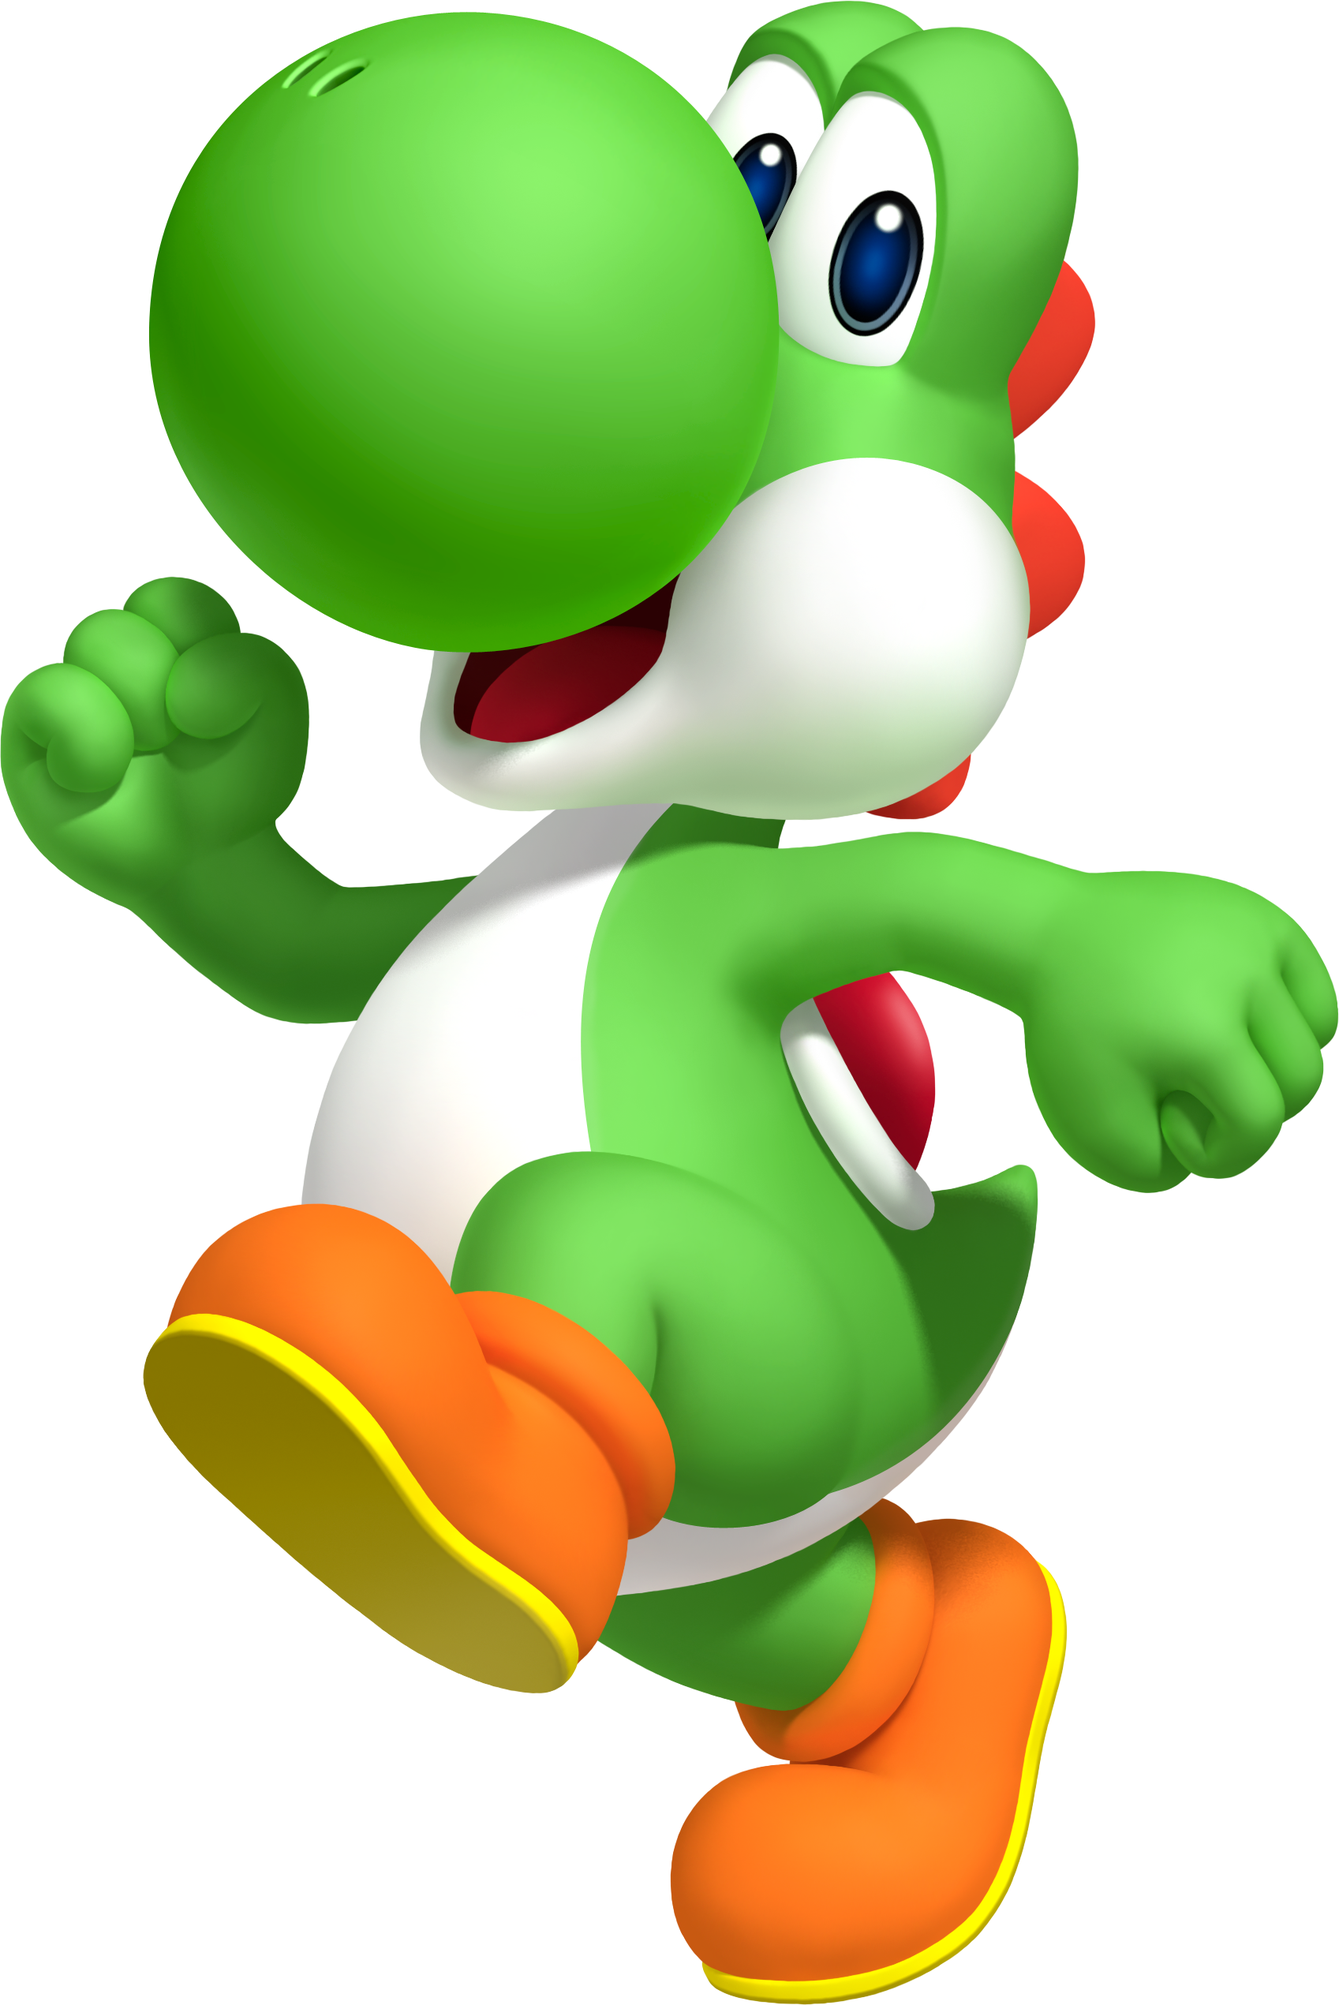
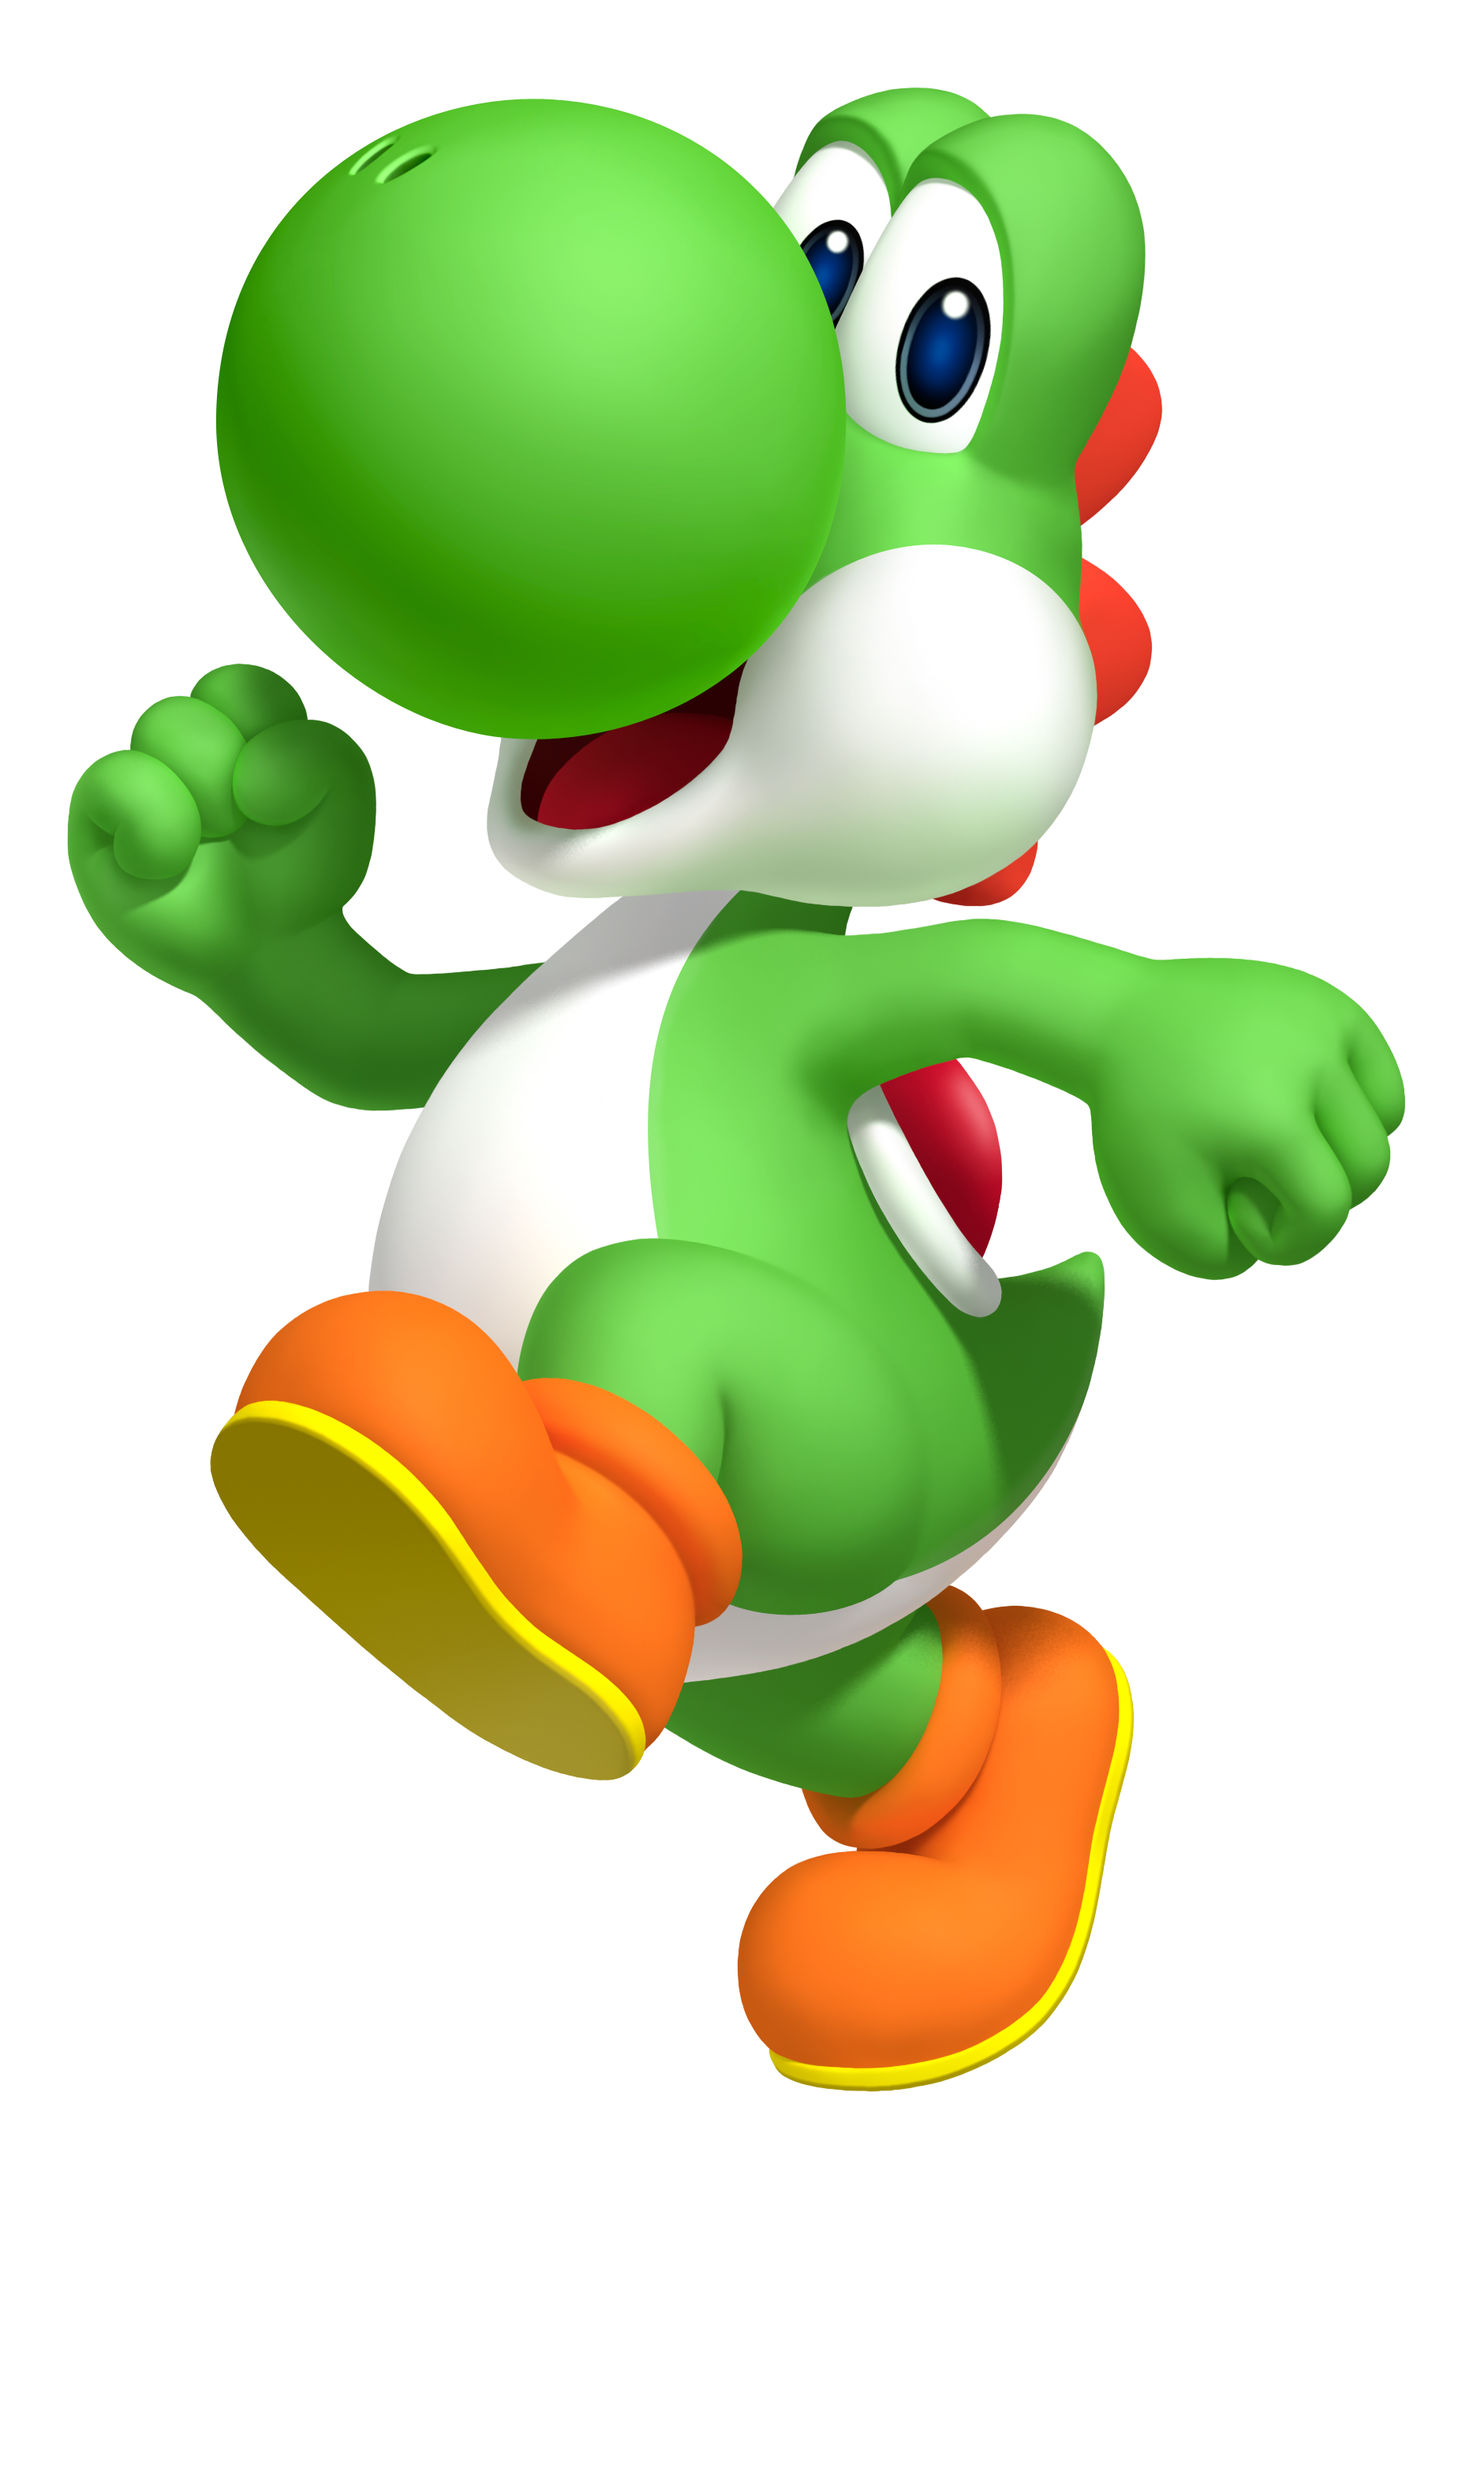
Colors and artwork added

diff --git a/src/components/character-card/character-card.scss b/src/components/character-card/character-card.scss
@@ -2,28 +2,38 @@
     ion-card-header, h3 {
         color: color($game-character-colors, $character-name);
     }
-    div.image {
+    div.gradient {
         background-color: color($game-character-colors, $character-name);
-        div {
+        div.image {
             background-image: url('/assets/imgs/characters/#{$character-name}.png');
         }
     }
 }
 
 character-card {
-    div.image {
+    div.gradient {
         border: 5vw solid #fff;
         width: 100%;
         height: calc(80vw);
         background-color: #ccc;
         background-image: radial-gradient(transparent, rgba(0, 0, 0, .4));
 
-        div {
+        div.image {
             width: 100%;
             height: 100%;
             background-position: top center;
             background-repeat: no-repeat;
             background-size: auto 200%;
+
+            div.decoration {
+                width: 100%;
+                height: 100%;
+                background-position: bottom center;
+                background-repeat: no-repeat;
+                // border-top: 5px solid red;
+                background-image: url('/assets/imgs/squares.png');
+                background-size: 100% auto;
+            }
         }
     }
     ion-card-header {

diff --git a/src/theme/variables.scss b/src/theme/variables.scss
@@ -56,8 +56,16 @@ $game-character-colors: (
   mario: rgb(31, 130, 197),
   donkey-kong: rgb(221, 38, 38),
   princess-peach: rgb(214, 13, 113),
-  yoshi: rgb(99, 143, 11),
-  bowser: red
+  yoshi: rgb(114, 165, 11),
+  bowser: red,
+  rosalina: rgb(9, 184, 160),
+  boo: rgb(129, 128, 128),
+  toad: rgb(45, 100, 252),
+  luigi: rgb(3, 161, 3),
+  tanooki-mario: rgb(131, 80, 73),
+  fire-mario: rgb(197, 47, 47),
+  wario: rgb(104, 13, 104),
+  diddy-kong: rgb(216, 4, 4)
 );
 
 

diff --git a/src/components/character-card/character-card.html b/src/components/character-card/character-card.html
@@ -1,6 +1,8 @@
 <ion-card [ngClass]="character.id">
-  <div class="image" *ngIf="image">
-    <div></div>
+  <div class="gradient" *ngIf="image">
+    <div class="image">
+      <div class="decoration"></div>
+    </div>
   </div>
   <ion-card-header text-center>{{character.name}}</ion-card-header>
 
